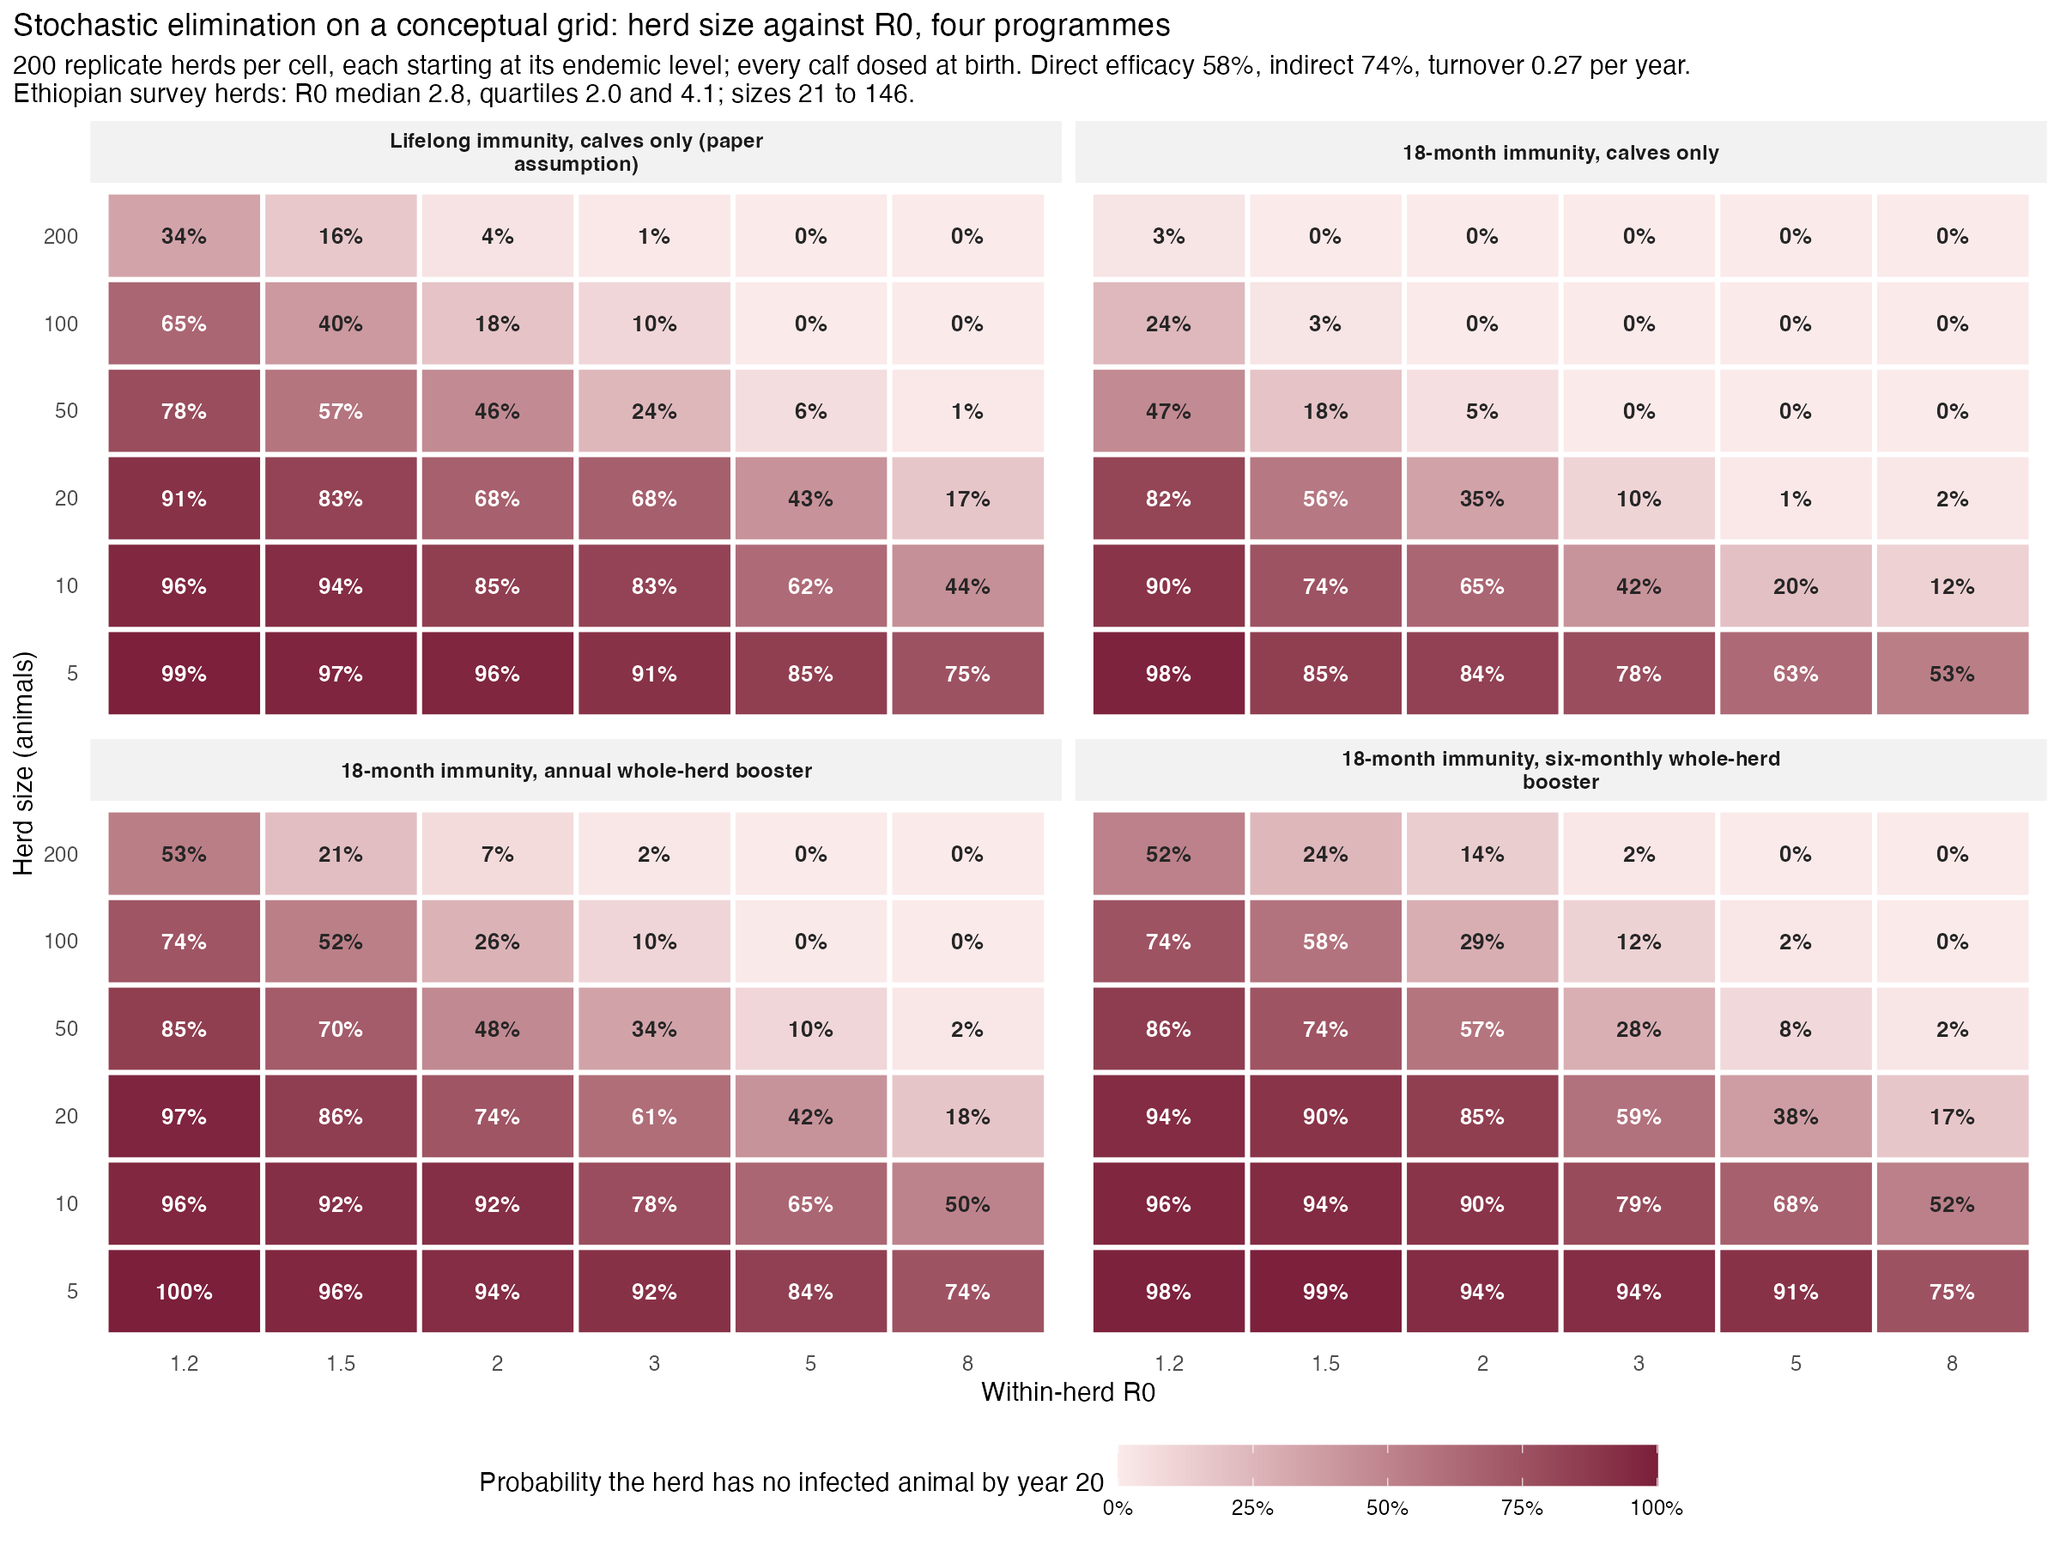
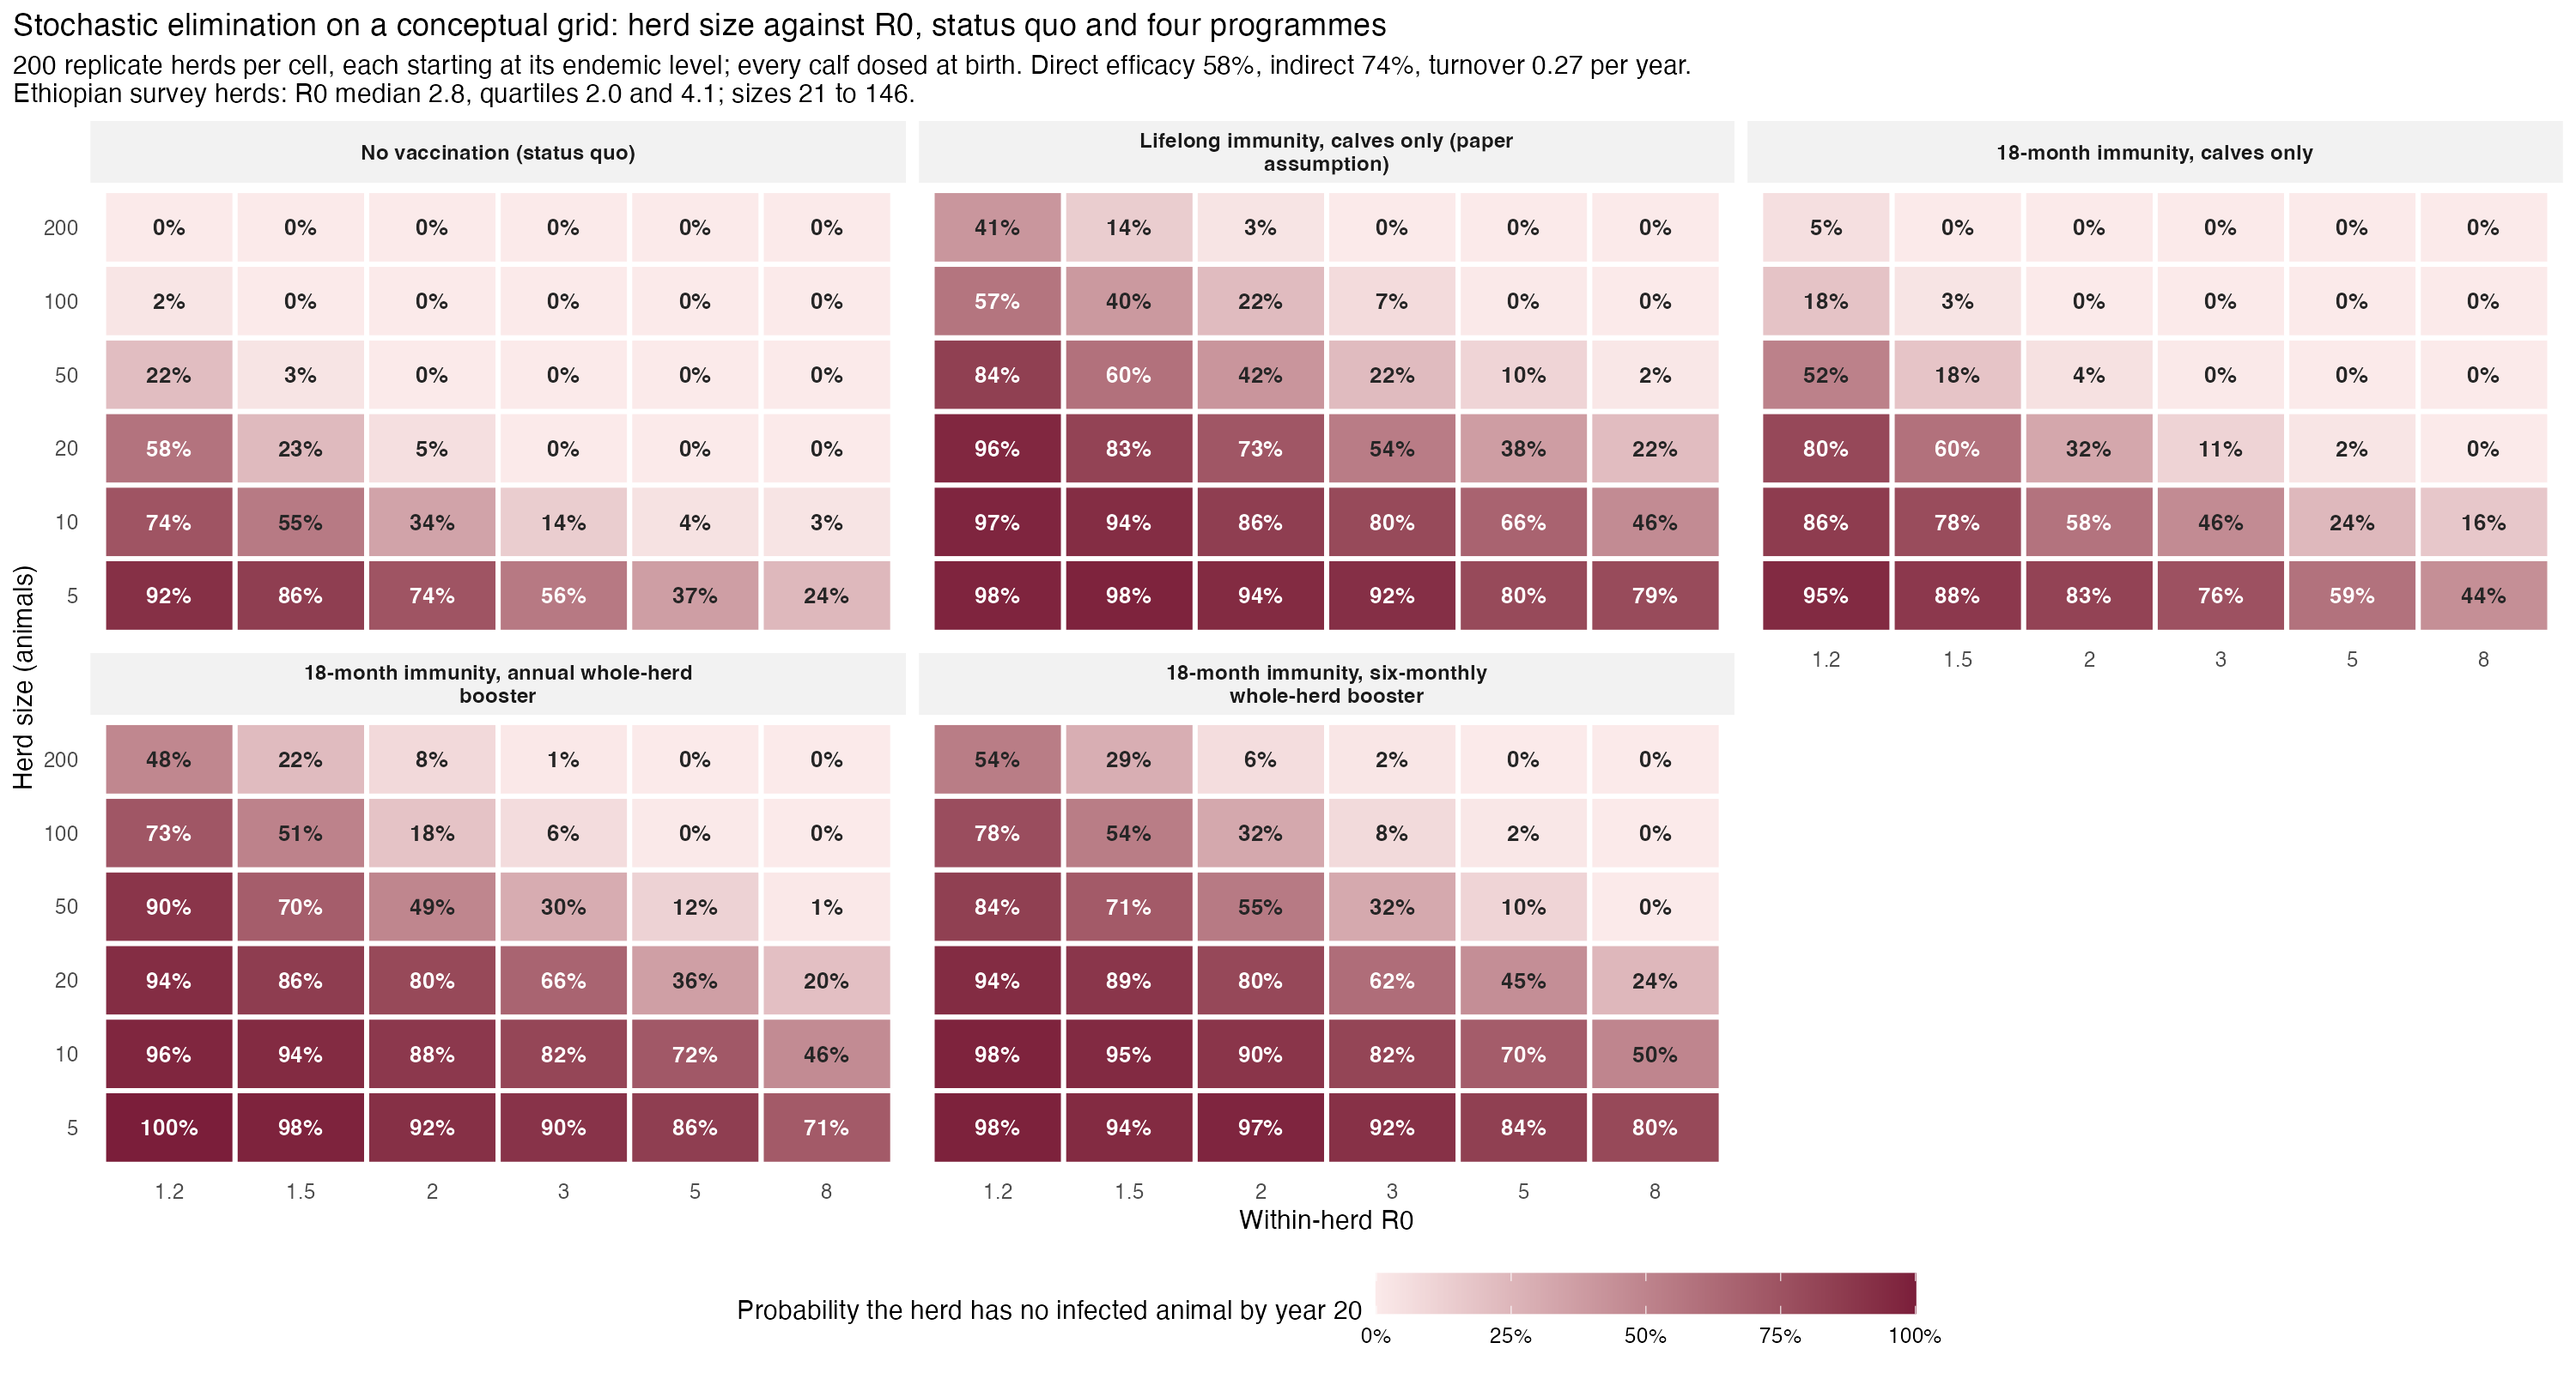
Show no vaccination as the status quo panel in the stochastic grid figures

diff --git a/README.md b/README.md
@@ -371,9 +371,10 @@ Stochastic grid (`run_stochastic_grid.R`). Replacing the survey herds with
 a conceptual grid of within-herd R0 (1.2 to 8) and herd size (5 to 200),
 and the deterministic threshold with the first day a herd has no infected
 animal, gives probabilities rather than times (figs 22 and 23; 200
-replicate herds per cell). Three things stand out. Small herds fade out by
-chance: with no vaccination at all, a 5-head herd at R0 2 is free by year
-50 in 94% of replicates and a 10-head herd in 68%, so in smallholder
+replicate herds per cell, with no vaccination as the first panel so each
+programme reads against its control). Three things stand out. Small herds
+fade out by chance: with no vaccination at all, a 5-head herd at R0 2 is
+free by year 20 in 74% of replicates and a 10-head herd in 34%, so in smallholder
 systems the vaccine's work is less to drive infection out of a herd than
 to stop it coming back, which makes purchases and neighbours the binding
 constraint there. Large herds need the reproduction number under

diff --git a/output/README.md b/output/README.md
@@ -21,6 +21,12 @@ hand. Figures are PNG at 200 dpi; tables are CSV.
 | `fig9`, `fig10`, `fig11` | Duration of protection under annual campaigns; protected fraction; stochastic check |
 | `fig12`, `fig13` | Speed of onset and infections in the pre-immunity window |
 | `fig15` | Booster schedule tiles with booster duration equal to, twice, or independent of the birth dose, plus campaign coverage |
+| `fig16` | Revaccination interval against duration of immunity (memo figure 2) |
+| `fig17`, `fig18` | Protection profiles with credible bands; schedule against profile with credible intervals |
+| `fig19a`, `fig19b` | Non-responder ceiling by R0; persistent against random non-response |
+| `fig20`, `fig21` | Infected purchases, Ethiopia; and with test-and-removal, UK-like |
+| `fig22`, `fig23` | Stochastic grid, status quo and four programmes: probability free by year 20; median years to freedom |
+| `fig24`, `fig25` | Replacement policy in the age-structured herd: probability free at year 50; prevalence at year 50 |
 
 ## Tables
 
